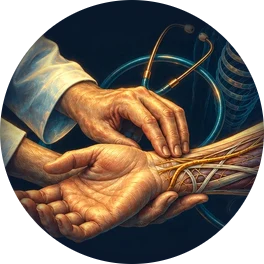
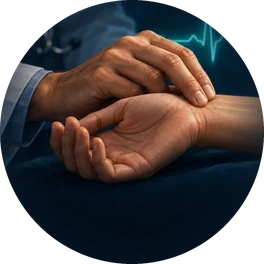
Zorg en geneeskunde: nieuwe plaat en rondje zonder bloot weefsel
Arts die de pols voelt met teal hartslaglijn (ElevenLabs, variant 3).
Oude anatomie-versies bewaard in img/kunst/varianten/.

Claude-Session: https://claude.ai/code/session_013FW4HTZ2qYUxNurWFLR1Mp

diff --git a/vervolg.html b/vervolg.html
@@ -767,7 +767,7 @@ function overzicht(){
     return [k?`${k} ${k===1?'film':'films'}`:'',n?`${n} komt nog`:''].filter(Boolean).join(' · ')||'komt nog'};
   const tegel=g=>{const c=CL[g.cluster];return `<li><a href="${stap>1?'?stap='+stap:''}#${g.id}"><span class="tk">${VICOON.includes(g.id)?`<img src="img/kunst/iconen/vervolg/${g.id}.webp?v=1" alt="" width="88" height="88" loading="lazy" decoding="async">`:kunst(c.id,c.kleur)}</span><b>${esc(g.naam).replace(/(\S)wetenschappen/g,'$1\u00ADwetenschappen')}</b><span class="mat">${esc(tel(g))}</span></a></li>`};
   return `<section class="ovz" aria-label="Alle vakgebieden"><header><span class="mono">Alle richtingen · studie en beroep</span><h2>Van spreekkamer tot veldwerk</h2><p>Kies een vakgebied. Elk gebied heeft extra films buiten het PTA, en straks ook een werkdag, een praktijkopdracht en de opleidingen.</p></header>
-    ${CLUSTERS.map(c=>`<div class="ovg" id="${c.id}"><div class="ovg-kop${KPLAAT.includes(c.id)?' met-plaat':''}">${KPLAAT.includes(c.id)?`<span class="kplaat" aria-hidden="true" style="--kp:url(img/kunst/vervolg/${c.id}.webp?v=3)"></span>`:''}<h3>${esc(c.naam)}</h3><span class="mono">${esc(c.sub||'')}</span></div><ul>${GEBIEDEN.filter(g=>g.cluster===c.id).map(tegel).join('')}</ul></div>`).join('')}</section>`;
+    ${CLUSTERS.map(c=>`<div class="ovg" id="${c.id}"><div class="ovg-kop${KPLAAT.includes(c.id)?' met-plaat':''}">${KPLAAT.includes(c.id)?`<span class="kplaat" aria-hidden="true" style="--kp:url(img/kunst/vervolg/${c.id}.webp?v=4)"></span>`:''}<h3>${esc(c.naam)}</h3><span class="mono">${esc(c.sub||'')}</span></div><ul>${GEBIEDEN.filter(g=>g.cluster===c.id).map(tegel).join('')}</ul></div>`).join('')}</section>`;
 }
 function render(){
   const g=GB[(location.hash||'').slice(1)];

diff --git a/index.html b/index.html
@@ -3105,7 +3105,7 @@ function home(){
     </article>
     <article class="vlak vlak-later" id="vlak-later">
       <header><span class="mono vlak-lbl">Wat word jij? · studie en beroep</span><h2>Een kijkje vooruit</h2><p>Welke opleidingen en beroepen draaien om biologie, en wat doe je daar echt?</p></header>
-      <ul>${VERDER.map(([id,naam,k,sub])=>`<li><a href="vervolg.html#${id}">${HICOON.includes('v-'+id)?`<span class="tk foto"><img src="img/kunst/iconen/home/v-${id}.webp?v=2" alt="" width="76" height="76" decoding="async"></span>`:`<span class="tk"><svg class="kunst" viewBox="0 0 120 120" fill="none" stroke="currentColor" stroke-linecap="round" stroke-linejoin="round" aria-hidden="true" style="--c:var(--${k})">${VERDERKUNST[id]||''}</svg></span>`}<span class="vtekst"><b>${esc(naam)}</b>${sub?`<span class="sub">${esc(sub)}</span>`:''}</span>${pijl}</a></li>`).join('')}</ul>
+      <ul>${VERDER.map(([id,naam,k,sub])=>`<li><a href="vervolg.html#${id}">${HICOON.includes('v-'+id)?`<span class="tk foto"><img src="img/kunst/iconen/home/v-${id}.webp?v=3" alt="" width="76" height="76" decoding="async"></span>`:`<span class="tk"><svg class="kunst" viewBox="0 0 120 120" fill="none" stroke="currentColor" stroke-linecap="round" stroke-linejoin="round" aria-hidden="true" style="--c:var(--${k})">${VERDERKUNST[id]||''}</svg></span>`}<span class="vtekst"><b>${esc(naam)}</b>${sub?`<span class="sub">${esc(sub)}</span>`:''}</span>${pijl}</a></li>`).join('')}</ul>
       <a class="vlak-naar" href="vervolg.html">Alle richtingen ${pijl}</a>
     </article>
   </section>`;

diff --git a/CLAUDE.md b/CLAUDE.md
@@ -131,7 +131,7 @@ Elke pagina krijgt een knop 'Feedback?' in de kopbalk (naast licht/donker; in fi
 Kerndoelkaarten op 'Agora onderbouw' (`onderbouwPagina()` in index.html, Kamiel 21 okt 2026: "bioart, net ietsje kinderlijker want onderbouw"): vullende plaat achter elke actieve kaart, `img/kunst/onderbouw/<kerndoel>.webp` (3:4, gpt-image-2.5-sunburst; onderwerp boven, onderste 40% leeg navy). Kamiel koos dezelfde avond 'toch de kleurrijke variant': gloedstijl zoals de themapictogrammen (Haeckel-achtig, gloeiend in kleur op navy, prentenboekachtig); de eerste ivoor/goud-gravures staan als `img/kunst/varianten/onderbouw/<kd>-gravure.webp`, de kleurversies ook als `<kd>-kleur.webp`. Lijst `KDPLAAT`; alleen in de donkere stand (klasse `met-plaat`, laag `.kdplaat`, ronde lijntekening dan verborgen), in de lichte stand blijft de lijntekening. 32D (volgt) heeft nog geen plaat. ElevenLabs-flow https://elevenlabs.io/app/flows/lQMpaFmvVYZu5EGHnedr, één variant per plaat.
 Kerndoelkaarten op 'Agora onderbouw' (`onderbouwPagina()` in index.html, Kamiel 21 okt 2026: "bioart, net ietsje kinderlijker want onderbouw"): vullende gravureplaat achter elke actieve kaart, `img/kunst/onderbouw/<kerndoel>.webp` (3:4, gpt-image-2.5-sunburst, ivoor/goud op navy maar ronder en prentenboekachtiger dan de 'Wat word jij?'-platen; onderwerp boven, onderste 40% leeg navy). Lijst `KDPLAAT`; alleen in de donkere stand (klasse `met-plaat`, laag `.kdplaat`, ronde lijntekening dan verborgen), in de lichte stand blijft de lijntekening. 32D (volgt) heeft nog geen plaat. ElevenLabs-flow https://elevenlabs.io/app/flows/lQMpaFmvVYZu5EGHnedr, één variant per plaat.
 
-Vakplaten 'Wat word jij?' (overzicht vervolg.html, `.kplaat`, `img/kunst/vervolg/<cluster>.webp`): sinds 21 okt 2026 in volle kleur in de stijl van de ronde iconen (Kamiel: "dezelfde kleur als de rondjes"; koos variant D uit een test met huidig / gedempt / volle kleur / duotoon). Gemaakt in ElevenLabs-flow https://elevenlabs.io/app/flows/vNa3id4usD89yd4eMKaV (gpt-image-2.5-sunburst, edit met de oude gravure als compositie en een rond icoon als stijl: gedrag→neurowetenschappen, zorg→geneeskunde, lab→biomedisch, voeding→voedingsleer, groen→ecologie, onderwijs→leraar), uitgesneden naar 768×1024 met het onderwerp boven en lege navy onderaan. CSS: plaat op opacity 1, kort verloop onderaan (alleen donkere stand). De oude grijze gravures staan in `img/kunst/vervolg/gravure/`.
+Vakplaten 'Wat word jij?' (overzicht vervolg.html, `.kplaat`, `img/kunst/vervolg/<cluster>.webp`): sinds 21 okt 2026 in volle kleur in de stijl van de ronde iconen (Kamiel: "dezelfde kleur als de rondjes"; koos variant D uit een test met huidig / gedempt / volle kleur / duotoon). Gemaakt in ElevenLabs-flow https://elevenlabs.io/app/flows/vNa3id4usD89yd4eMKaV (gpt-image-2.5-sunburst, edit met de oude gravure als compositie en een rond icoon als stijl: gedrag→neurowetenschappen, zorg→geneeskunde, lab→biomedisch, voeding→voedingsleer, groen→ecologie, onderwijs→leraar), uitgesneden naar 768×1024 met het onderwerp boven en lege navy onderaan. CSS: plaat op opacity 1, kort verloop onderaan (alleen donkere stand). De oude grijze gravures staan in `img/kunst/vervolg/gravure/`. Zorg (25 okt 2026, Kamiel: de arm zonder huid was 'niet zo appetijtelijk'): nieuwe plaat zonder bloot weefsel, arts die de pols van een patiënt voelt met een teal hartslaglijn, gemaakt in ElevenLabs-flow https://elevenlabs.io/app/flows/bb91z6VjcKPkb4sRspg1 (gpt-image-2.5-sunburst, 16:9, variant 3 van 4; bron in `img/kunst/varianten/vervolg/zorg-polshanden-bron.png`), uitgesneden naar 768×1024 met navy onderaan; ook het rondje `v-zorg` is daaruit gesneden. Oude anatomie-plaat en -rondje: `img/kunst/varianten/vervolg/zorg-anatomie-oud.webp` en `img/kunst/varianten/home/v-zorg-anatomie-oud.webp`.
 
 Filmoverzicht (`#films`, functie `films()`) en lessenoverzicht: sinds 22 okt 2026 (Kamiel: "hier is nog geen bioart") tonen de reekskoppen dezelfde ElevenLabs-medaillons als de themategels op de hoofdpagina (`img/kunst/iconen/<id>.webp`, via `embleem(id)`; valt terug op de lijntekening als het thema niet in `ICOON` staat). Nieuw thema met medaillon → alleen `ICOON` aanvullen.
 
